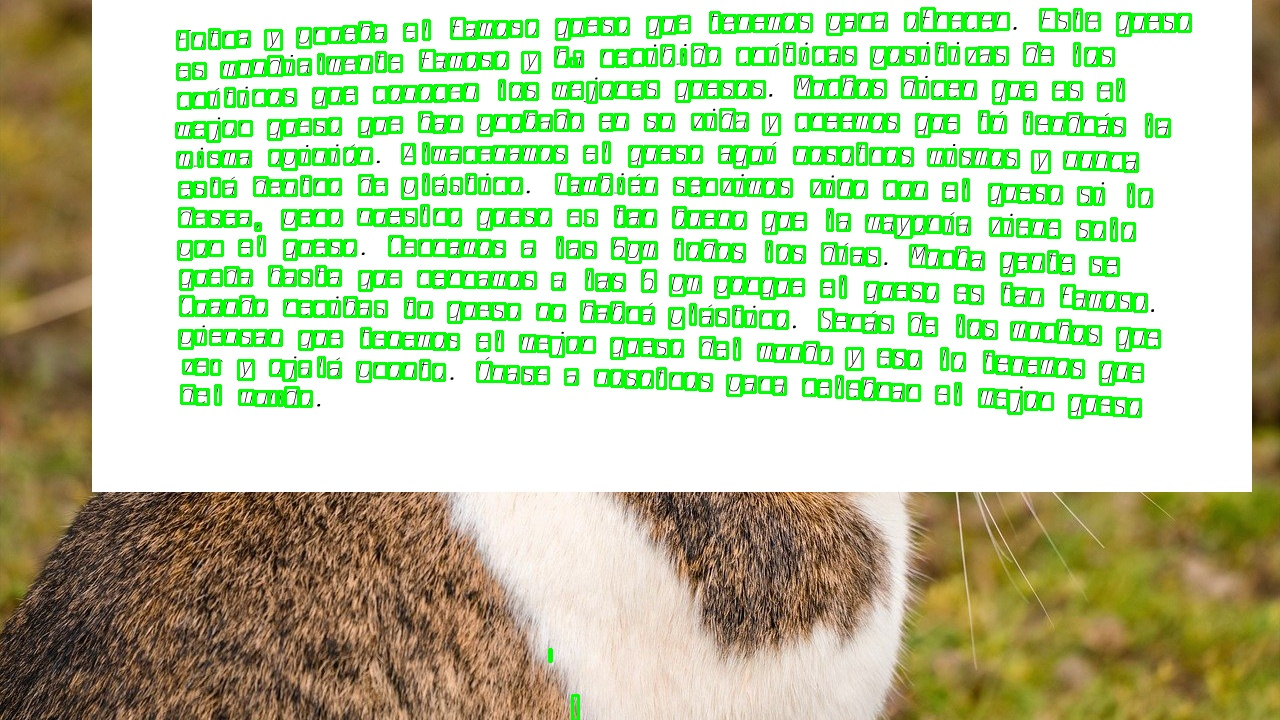
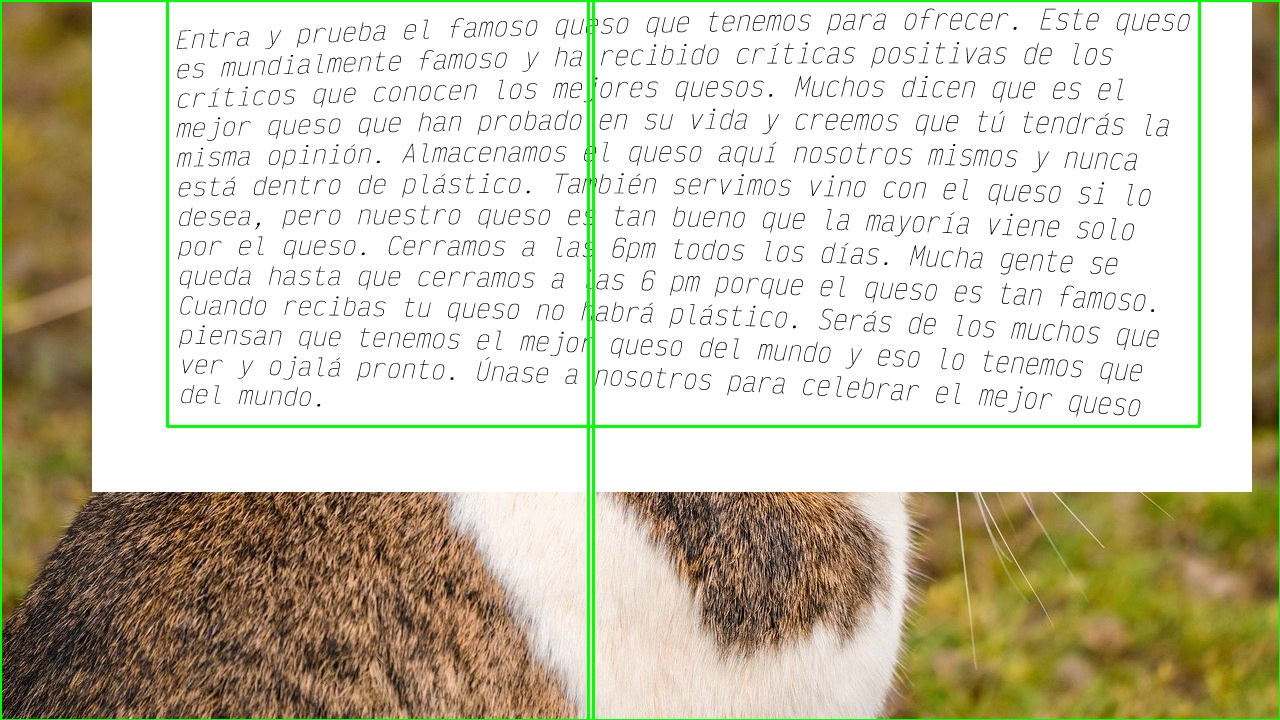
Update the text area
Find the text extraction

Changed region(s): [[0.0, 0.0, 1.0, 1.0]]

diff --git a/IdentifyTextAreas.py b/IdentifyTextAreas.py
@@ -2,6 +2,8 @@ import cv2
 import numpy as np
 #import matplotlib.pyplot as plt
 
+import pytesseract
+import csv 
 import os
 
 # Get the current file location
@@ -21,32 +23,59 @@ def identify_text_areas(img_path):
     _, thresh = cv2.threshold(gray_img, 0, 255, cv2.THRESH_OTSU | cv2.THRESH_BINARY_INV)
 
     # Get structuring element/kernel that will be used for dilation
-    kernel = cv2.getStructuringElement(cv2.MORPH_RECT, (3, 3))
+    kernel = cv2.getStructuringElement(cv2.MORPH_RECT, (1, 7))
 
     # Dilate the image
-    dilated = cv2.dilate(thresh, kernel, iterations=5)
+    dilated_r = cv2.dilate(thresh, kernel, iterations=3)
+
+    # Get structuring element/kernel that will be used for dilation
+    kernel2 = cv2.getStructuringElement(cv2.MORPH_RECT, (7, 1))
+
+    # Dilate the image
+    dilated = cv2.dilate(dilated_r, kernel2, iterations=3)
 
     # Find contours
-    ctrs, hier = cv2.findContours(thresh, cv2.RETR_EXTERNAL, cv2.CHAIN_APPROX_SIMPLE)
+    ctrs, hier = cv2.findContours(dilated, cv2.RETR_EXTERNAL, cv2.CHAIN_APPROX_SIMPLE)
     
     img_copy = img.copy()
+
+    # Initialize an empty list to store the bounding rectangles and OCR outputs
+    results = []
 
     for ctr in ctrs:
         # Get bounding box
         x, y, w, h = cv2.boundingRect(ctr)
+        rect = cv2.rectangle(img_copy, (x, y), (x + w, y + h), (0,255,0), 2)
         
-        if (w * h >= 20 and w * h <= 1000):
-            rect = cv2.rectangle(img_copy, (x, y), (x + w, y + h), (0,255,0), 2)
+        # Crop the bounding rectangle from the grayscale image
+        crop_img = gray_img[y:y+h, x:x+w]
+        
+        # Pass the cropped image to Tesseract OCR and get the output text
+        ocr_output = pytesseract.image_to_string(crop_img, lang='spa')
+        
+        # If the OCR output contains text, store the bounding rectangle coordinates and the OCR output in a list
+        if ocr_output.strip():
+            results.append((x, y, w, h, ocr_output.strip()))
+            
+    text = ""
+    # Display the results
+    for result in results:
+        x, y, w, h, new_text = result
+        if(len(new_text)>=len(text)):
+            text = new_text
+        rect = cv2.rectangle(img, (x, y), (x + w, y + h), (0, 255, 0), 2)
 
-    return rect
+    return rect, text
 
 
 if __name__ == "__main__":
     for i in range(1, 5):
         img_path = f"training/training{i}.png"
-        rects = identify_text_areas(img_path)
+        rects, texts = identify_text_areas(img_path)
+        print(texts)
         cv2.imwrite(f"saved_images/rectanglebox{i}.jpg", rects)
-
+        with open(f"saved_texts/text{i}.txt", "w") as file:
+            file.write(texts)
     
 
     # img = cv2.imread("training/training4.png")

diff --git a/ExtractText.py b/ExtractText.py
@@ -1,9 +1,7 @@
 import cv2
-import numpy as np
-import matplotlib.pyplot as plt
-import pyocr
-import pyocr.builders
-from PIL import Image
+#import pyocr
+#import pyocr.builders
+#from PIL import Image
 import pytesseract
 import os
 import csv
@@ -17,17 +15,12 @@ def extract_text(img_path):
     # Convert the image to grayscale
     gray_img = cv2.cvtColor(img, cv2.COLOR_BGR2GRAY)
 
-    blur = cv2.GaussianBlur(gray_img, (5, 5), 0)
-    thresh = cv2.threshold(blur, 0, 255, cv2.THRESH_BINARY + cv2.THRESH_OTSU)[1]
-    kernel = cv2.getStructuringElement(cv2.MORPH_RECT, (3,3))
-    opening = cv2.morphologyEx(thresh, cv2.MORPH_OPEN, kernel, iterations=1)
+    thresh = cv2.threshold(gray_img, 0, 255, cv2.THRESH_BINARY + cv2.THRESH_OTSU)[1]
 
     # Apply threshold to get image with only b&w (binarization)
 #    threshold_img = cv2.threshold(gray_img, 0, 255, cv2.THRESH_OTSU | cv2.THRESH_BINARY_INV)[1]
-
-    custom_config = r'--oem 3 --psm 3'
     
-    details = pytesseract.image_to_data(opening, output_type=pytesseract.Output.DICT, config=custom_config, lang='spa')
+    details = pytesseract.image_to_data(thresh, output_type = pytesseract.Output.DICT, lang='spa')
     
     parse_text = []
     word_list = []
@@ -47,6 +40,7 @@ if __name__ == "__main__":
     for i in range(1, 5):
         img_path = f"training/training{i}.png"
         parse_text = extract_text(img_path)
+        print(parse_text)
         with open(f"saved_texts/text{i}.txt", "w", newline = "") as file:
             csv.writer(file, delimiter = " ").writerows(parse_text)
 
